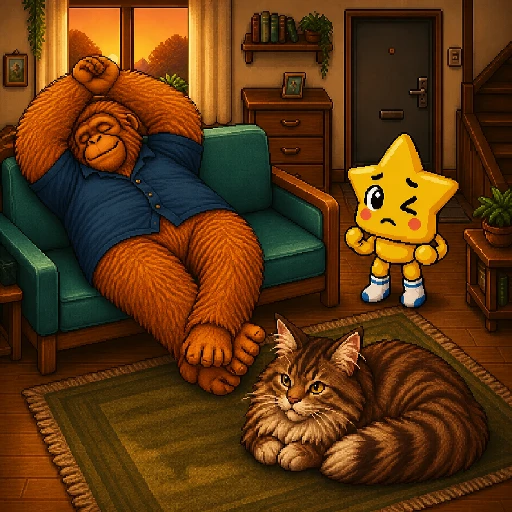
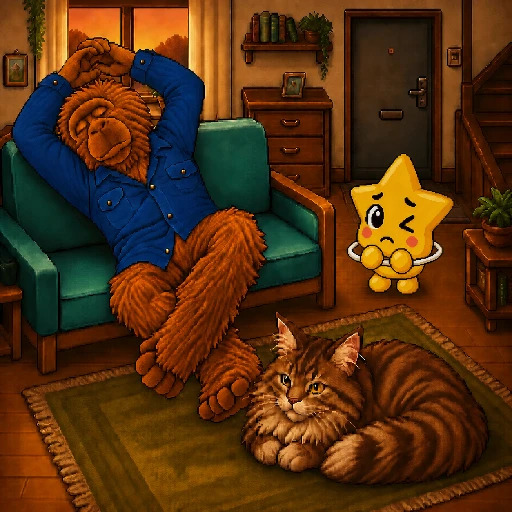
fix: タツヲとエトキチのくつろぎシーン素材を調整

diff --git a/tests/room-presentation.spec.ts b/tests/room-presentation.spec.ts
@@ -335,16 +335,16 @@ describe("room presentation", () => {
       height: 88,
       furnitureId: "sofa",
       actionPointId: "sitRear",
-      offset: { x: 0, y: 30 },
+      offset: { x: -2, y: 34 },
       depthActionPointId: "sit",
       depthOffset: 30,
     });
     if (!presentation.companion) throw new Error("reclining Tatsuo is missing");
-    expect(resolveGuestPosition(presentation.companion, DEFAULT_ROOM_LAYOUT.furniture)).toEqual({ x: 31, y: 318 });
+    expect(resolveGuestPosition(presentation.companion, DEFAULT_ROOM_LAYOUT.furniture)).toEqual({ x: 29, y: 322 });
     expect(resolveGuestDepthY(presentation.companion, 271, DEFAULT_ROOM_LAYOUT.furniture)).toBe(348);
 
     const movedFurniture = resolveFurnitureLayout(createFurnitureAnchors({ sofa: { x: 29, y: 330 } }));
-    expect(resolveGuestPosition(presentation.companion, movedFurniture)).toEqual({ x: 36, y: 308 });
+    expect(resolveGuestPosition(presentation.companion, movedFurniture)).toEqual({ x: 34, y: 312 });
     expect(resolveGuestDepthY(presentation.companion, 271, movedFurniture)).toBe(338);
   });
 

diff --git a/src/rendering/room-presentation.ts b/src/rendering/room-presentation.ts
@@ -330,7 +330,7 @@ export function getRoomPresentation(visit: VisitView): RoomPresentation {
         height: 88,
         furnitureId: "sofa",
         actionPointId: "sitRear",
-        offset: { x: 0, y: 30 },
+        offset: { x: -2, y: 34 },
         depthActionPointId: "sit",
         depthOffset: 30,
       },
